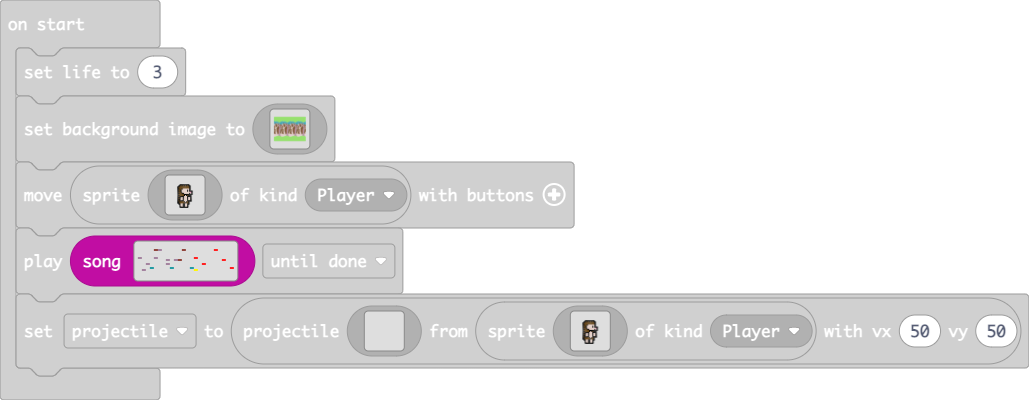
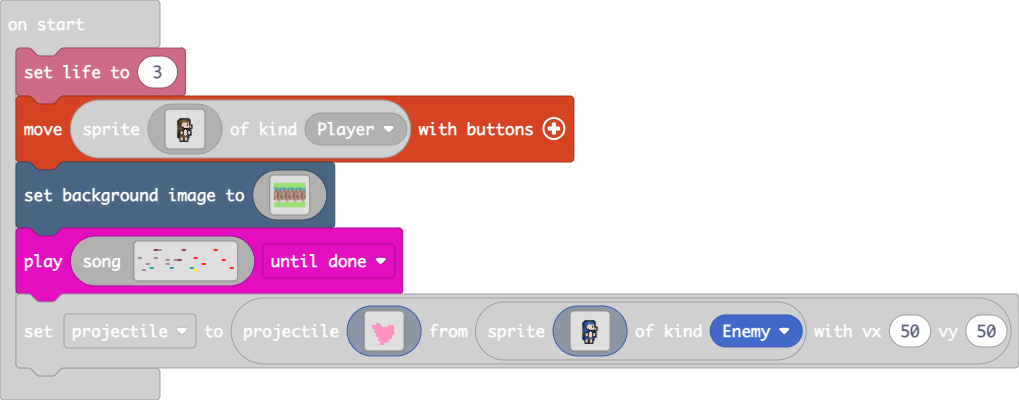
EVILLLL hedgehog character

Changed region(s): [[0.0, 0.09, 0.9127, 0.9], [0.4563, 0.75, 0.4868, 0.78]]

diff --git a/images.g.ts b/images.g.ts
@@ -145,39 +145,6 @@ ddddd77777777777777777777777777777777777ddddd77777777777777777777777777777777777
 7777777777777777777777777777777777777777777777777777777777777777777777777777777777777777777777777777777777777777777777777777777777777777777777777777777777777777
 7777777777777777777777777777777777777777777777777777777777777777777777777777777777777777777777777777777777777777777777777777777777777777777777777777777777777777
 `;
-            case "Wh4":
-            case "Hedgehog main character":return img`
-..............................
-..............................
-..............................
-..............................
-..............................
-..........fffffffff...........
-.........ff9f9f9f9ff..........
-........ff999999999f..........
-........f9999999999f..........
-........ff99fddddddf..........
-........f99fdddddfdf..........
-........ff9fdddddfdfff........
-........f99fdddddddd3f........
-........ff99ffdddddfdf........
-........f99999ffffffff........
-........ff9999fdf9fff.........
-........f9ffffdddffff.........
-........fffddfdddfddf.........
-........f9fddfdddfddf.........
-........fffddfdddfddf.........
-........f9ffffdddffff.........
-........ff9999fdf9f...........
-........ff99999f99f...........
-.........ffddffddff...........
-..........fddffddf............
-..........fddffddf............
-..........ffffffff............
-..............................
-..............................
-..............................
-`;
             case "image3":
             case "temp background":return img`
 7777777777777777777777777777777777777777777777777777777777777777777777777777777777777777777777777777777777777777777777777777777777777777777777777777777777777777
@@ -300,6 +267,91 @@ ddddd77777777777777777777777777777777777ddddd77777777777777777777777777777777777
 7777777777777777777777777777777777777777777777777777777777777777777777777777777777777777777777777777777777777777777777777777777777777777777777777777777777777777
 7777777777777777777777777777777777777777777777777777777777777777777777777777777777777777777777777777777777777777777777777777777777777777777777777777777777777777
 7777777777777777777777777777777777777777777777777777777777777777777777777777777777777777777777777777777777777777777777777777777777777777777777777777777777777777
+`;
+            case "image4":
+            case "image":return img`
+. . . . . . . . . . . . . . . . 
+. . . . . . . . . . . . . . . . 
+. . . . . . . . . . . . . . . . 
+. . . . . . . . . . . . . . . . 
+. . . . 3 3 . . . . . . . . . . 
+. . 3 3 3 3 3 . . . 3 3 3 . . . 
+. . 3 3 3 3 3 3 3 3 3 3 3 . . . 
+. . . 3 3 3 3 3 3 3 3 3 3 . . . 
+. . . 3 3 3 3 3 3 3 3 3 3 . . . 
+. . . . 3 3 3 3 3 3 3 3 3 . . . 
+. . . . 3 3 3 3 3 3 3 3 . . . . 
+. . . . . 3 3 3 3 3 3 3 . . . . 
+. . . . . 3 3 3 3 3 3 . . . . . 
+. . . . . . 3 3 3 3 . . . . . . 
+. . . . . . 3 3 . . . . . . . . 
+. . . . . . . . . . . . . . . . 
+`;
+            case "Wh4":
+            case "Hedgehog main character":return img`
+..............................
+..............................
+..............................
+..............................
+..............................
+..........fffffffff...........
+.........ff9f9f9f9ff..........
+........ff999999999f..........
+........f9999999999f..........
+........ff99fddddddf..........
+........f99fdddddfdf..........
+........ff9fdddddfdfff........
+........f99fdddddddd3f........
+........ff99ffdddddfdf........
+........f99999ffffffff........
+........ff9999fdf9fff.........
+........f9ffffdddffff.........
+........fffddfdddfddf.........
+........f9fddfdddfddf.........
+........fffddfdddfddf.........
+........f9ffffdddffff.........
+........ff9999fdf9f...........
+........ff99999f99f...........
+.........ffddffddff...........
+..........fddffddf............
+..........fddffddf............
+..........ffffffff............
+..............................
+..............................
+..............................
+`;
+            case "image5":
+            case "Evil hedgehog":return img`
+..............................
+..............................
+..............................
+..............................
+..............................
+..........fffffffff...........
+.........ff8f8f8f8ff..........
+........ff888888888f..........
+........f8888888888f..........
+........ff88fddddddf..........
+........f88fdddddfdf..........
+........ff8fdddddfdfff........
+........f88fdddddddd3f........
+........ff88ffdddddfdf........
+........f88888ffffffff........
+........ff8888fdf8fff.........
+........f8ffffdddffff.........
+........fffddfdddfddf.........
+........f8fddfdddfddf.........
+........fffddfdddfddf.........
+........f8ffffdddffff.........
+........ff8888fdf8f...........
+........ff88888f88f...........
+.........ffddffddff...........
+..........fddffddf............
+..........fddffddf............
+..........ffffffff............
+..............................
+..............................
+..............................
 `;
         }
         return null;

diff --git a/main.ts b/main.ts
@@ -1,22 +1,5 @@
 info.setLife(3)
-scene.setBackgroundImage(assets.image`temp background`)
 controller.moveSprite(sprites.create(assets.image`Hedgehog main character`, SpriteKind.Player))
+scene.setBackgroundImage(assets.image`temp background`)
 music.play(music.createSong(assets.song`Song`), music.PlaybackMode.UntilDone)
-let projectile = sprites.createProjectileFromSprite(img`
-    . . . . . . . . . . . . . . . . 
-    . . . . . . . . . . . . . . . . 
-    . . . . . . . . . . . . . . . . 
-    . . . . . . . . . . . . . . . . 
-    . . . . . . . . . . . . . . . . 
-    . . . . . . . . . . . . . . . . 
-    . . . . . . . . . . . . . . . . 
-    . . . . . . . . . . . . . . . . 
-    . . . . . . . . . . . . . . . . 
-    . . . . . . . . . . . . . . . . 
-    . . . . . . . . . . . . . . . . 
-    . . . . . . . . . . . . . . . . 
-    . . . . . . . . . . . . . . . . 
-    . . . . . . . . . . . . . . . . 
-    . . . . . . . . . . . . . . . . 
-    . . . . . . . . . . . . . . . . 
-    `, sprites.create(assets.image`Hedgehog main character`, SpriteKind.Player), 50, 50)
+let projectile = sprites.createProjectileFromSprite(assets.image`image`, sprites.create(assets.image`Evil hedgehog`, SpriteKind.Enemy), 50, 50)
